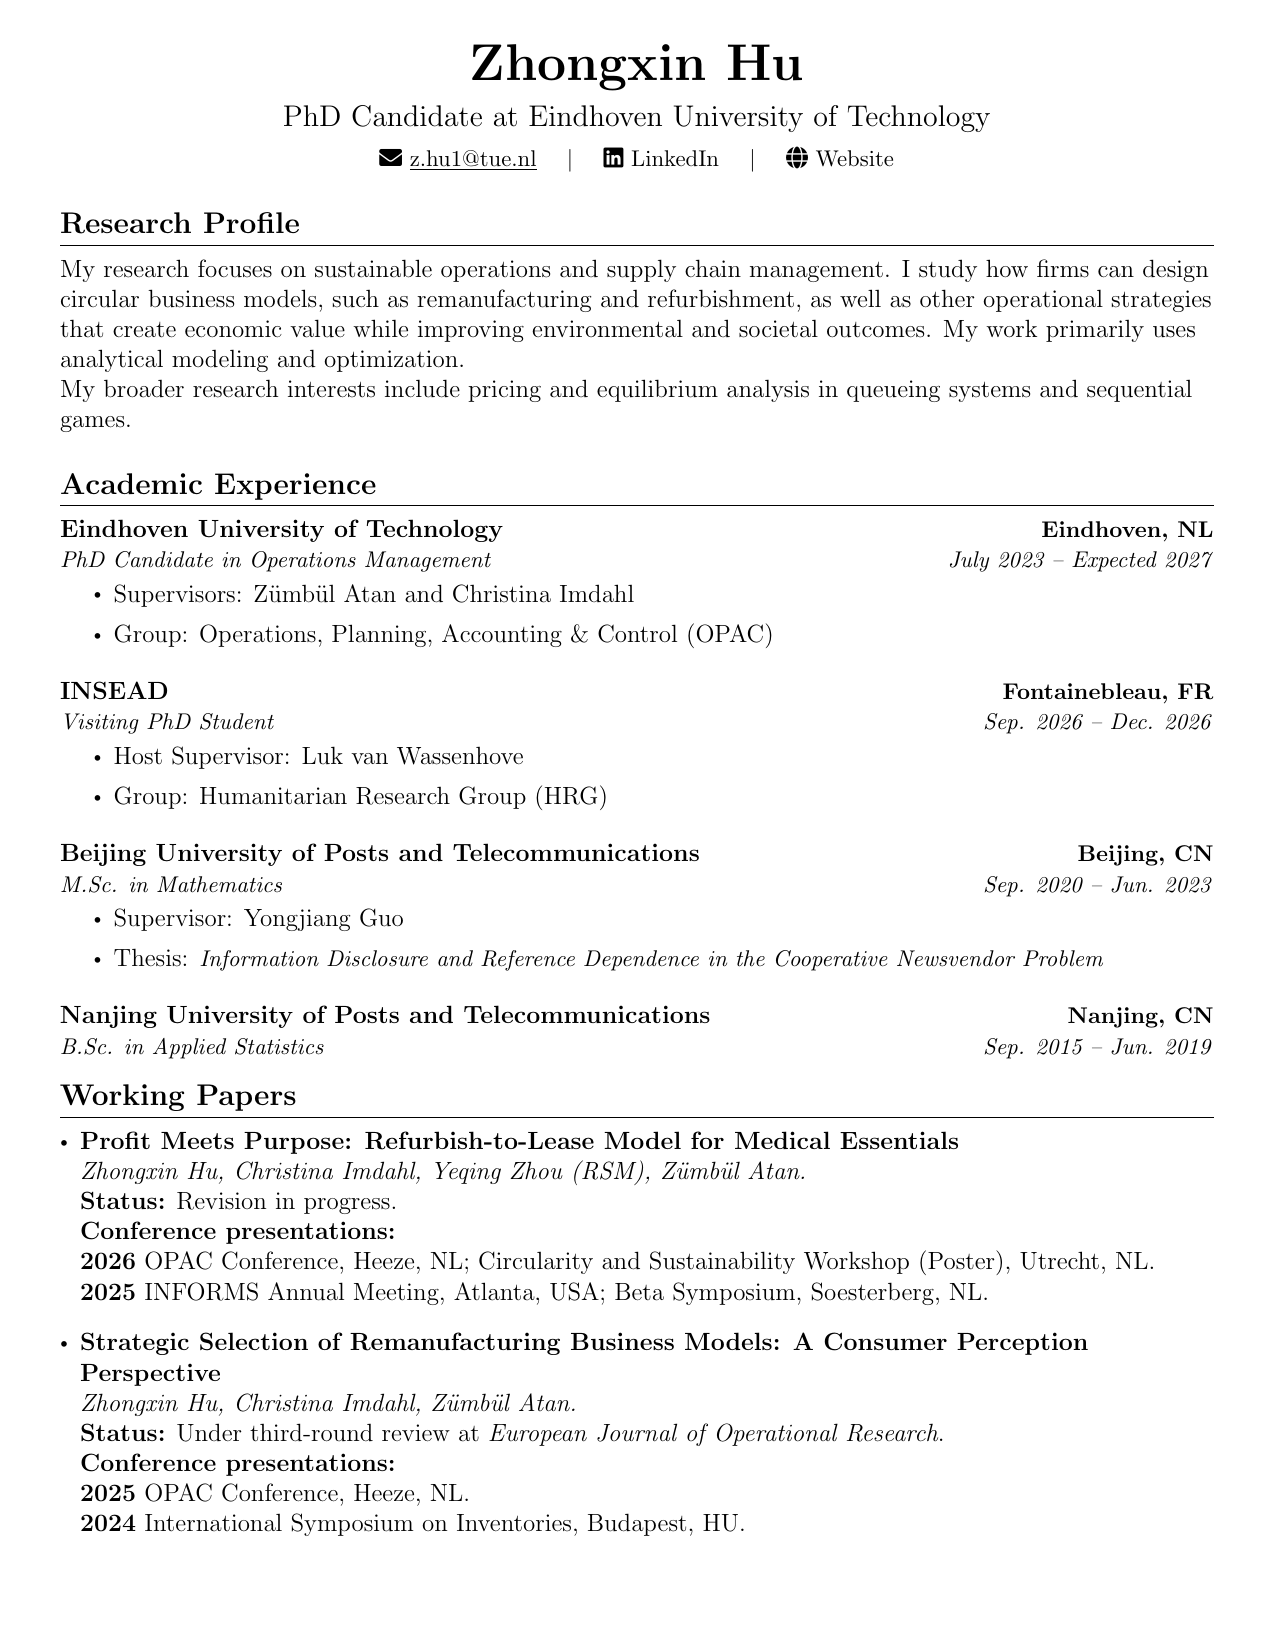
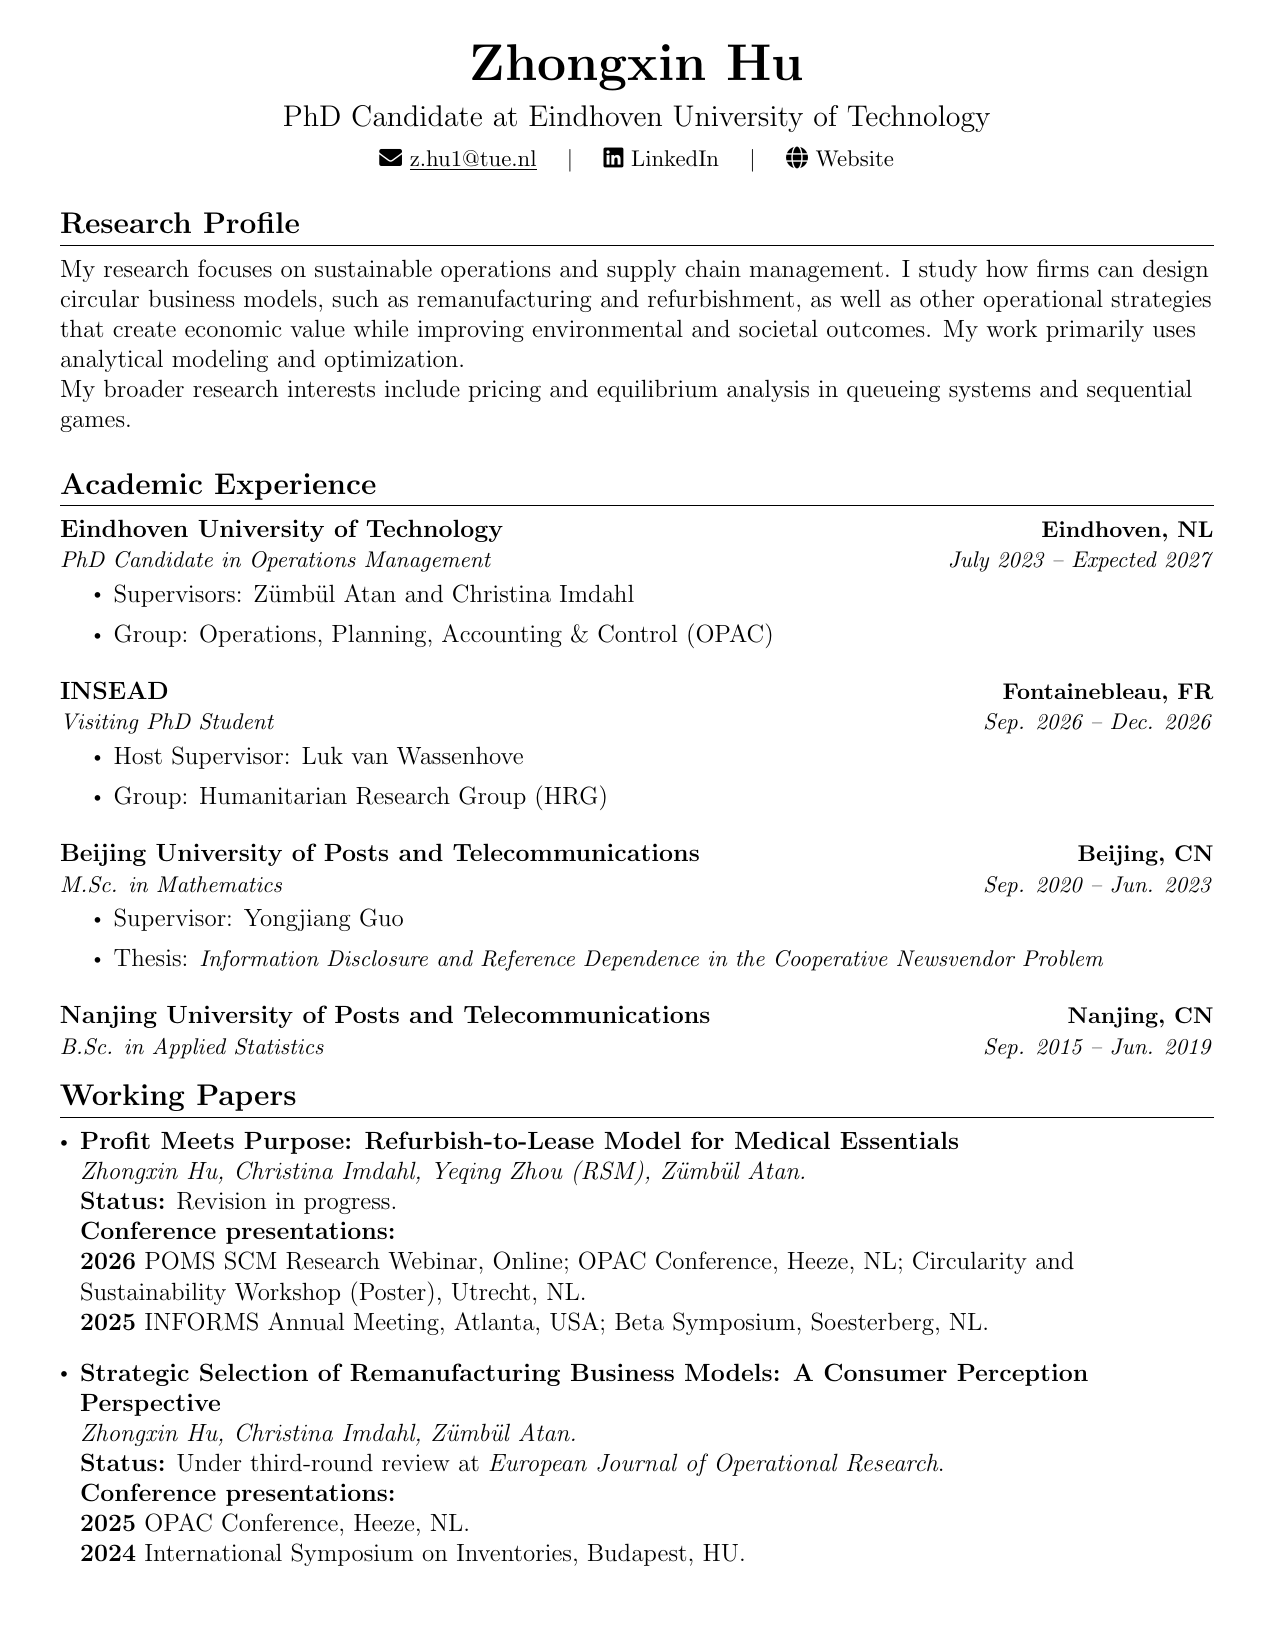
Deploying to gh-pages from @ mavisval/mavisval.github.io@219caa416c5528749c1822b3c19fd7b662a6ca55 🚀

Changed region(s): [[0.0612, 0.7418, 0.8565, 0.9582], [0.5506, 0.9273, 0.5812, 0.9582]]

diff --git a/publications/index.html b/publications/index.html
@@ -2,7 +2,7 @@
   :root {
     --max-content-width: 960px;
   }
-</style> <link rel="stylesheet" href="/assets/css/tailwind.css?v=50c64c15cbb9fd1ce6056fdb8bcb4b62"> <link defer rel="stylesheet" href="https://cdn.jsdelivr.net/npm/@fortawesome/fontawesome-free@7.2.0/css/all.min.css" integrity="sha256-MVopmdyC2tYTiJ8wlktf0uh0v4NgT+vNdyVFepi7Q0c=" crossorigin="anonymous"> <link defer rel="stylesheet" href="https://cdn.jsdelivr.net/npm/academicons@1.9.5/css/academicons.min.css" integrity="sha256-SzrCOBJbGVFMahewkgjwnApaV2+av1DwMAA+/QGLyZw=" crossorigin="anonymous"> <link defer rel="stylesheet" href="https://cdn.jsdelivr.net/npm/scholar-icons@1.0.3/css/scholar-icons.css" integrity="sha256-VY3hHVj/hNX3fYG6wtbA6TcKJQl7+FthzGSyIB64klY=" crossorigin="anonymous"> <link defer rel="stylesheet" type="text/css" href="https://fonts.googleapis.com/css?family=Roboto:300,400,500,700|Roboto+Slab:100,300,400,500,700|Material+Icons&amp;display=swap"> <link defer rel="stylesheet" href="/assets/css/jekyll-pygments-themes-github.css?v=591dab5a4e56573bf4ef7fd332894c99" media="" id="highlight_theme_light"> <link rel="shortcut icon" href="/assets/img/favicon.svg?v=39fb2730c48bcb2c2edf5f1d025e34cc"> <link rel="apple-touch-icon" href="/assets/img/favicon-180.png?v=cf4f88c2f43f24621c7fbbd009be7f69"> <link rel="stylesheet" href="/assets/css/main.css?v=3116ba77db9ee1581d05bb3e86fbf7f1"> <link rel="canonical" href="https://mavisval.github.io/publications/"> </head> <body class="fixed-top-nav sticky-bottom-footer"> <header> <nav id="navbar" class="navbar navbar-light navbar-expand-sm fixed-top" role="navigation"> <div class="container"> <a class="navbar-brand title font-weight-lighter" href="/"> Zhongxin Hu </a> <button class="navbar-toggler collapsed navbar-toggler-main" type="button" data-nav-toggle="navbarNav" aria-controls="navbarNav" aria-expanded="false" aria-label="Toggle navigation"> <span class="sr-only">Toggle navigation</span> <span class="icon-bar top-bar"></span> <span class="icon-bar middle-bar"></span> <span class="icon-bar bottom-bar"></span> </button> <div class="collapse navbar-collapse navbar-collapse-main" id="navbarNav"> <ul class="navbar-nav navbar-menu-list flex-nowrap"> <li class="nav-item "> <a class="nav-link" href="/">About Me </a> </li> <li class="nav-item active"> <a class="nav-link" href="/publications/">Papers <span class="sr-only">(current)</span> </a> </li> <li class="nav-item "> <a class="nav-link" href="/teaching/">Teaching </a> </li> <li class="nav-item "> <a class="nav-link" href="/cv/">CV </a> </li> <li class="nav-item "> <a class="nav-link" href="/interests/">Beyond Research </a> </li> </ul> </div> </div> </nav> </header> <div class="container mt-5" role="main"> <div class="post"> <header class="post-header"> <h1 class="post-title">Papers</h1> <p class="post-description"></p> </header> <article> <div class="publications"> <h2 class="bibliography">Working papers</h2> <ol class="bibliography"> <li> <div class="row"> <div class="col col-sm-2 abbr"> </div> <div id="huProfit" class="col-sm-8"> <div class="title">Profit Meets Purpose: Refurbish-to-Lease Model for Medical Essentials</div> <div class="author"> <em>Zhongxin Hu</em>, Christina Imdahl, Yeqing Zhou, and Zumbul Atan </div> <div class="periodical"> <div class="paper-meta"> <div class="paper-status"> <strong>Status</strong><span>Revision in process</span> </div> <div class="paper-presentations"> <strong>Presentations</strong><ul> <li> <span class="presentation-year">2026</span><span>OPAC Conference · Heeze, the Netherlands · <span class="paper-award">Best Presentation Award</span></span> </li> <li> <span class="presentation-year">2026</span><span>Circularity and Sustainability Workshop · Utrecht, the Netherlands · Poster</span> </li> <li> <span class="presentation-year">2025</span><span>INFORMS Annual Meeting · Atlanta, USA</span> </li> <li> <span class="presentation-year">2025</span><span>Beta Symposium · Soesterberg, the Netherlands</span> </li> </ul> </div> <div class="links"><a class="btn btn-sm z-depth-0" href="https://www.researchgate.net/publication/406075772_Profit_Meets_Purpose_Refurbish-to-Lease_Model_for_Medical_Essentials" target="_blank" rel="noopener noreferrer">ResearchGate</a></div> </div> </div> <div class="periodical"> </div> <div class="links"> </div> </div> </div> </li> <li> <div class="row"> <div class="col col-sm-2 abbr"> </div> <div id="huStrategic" class="col-sm-8"> <div class="title">Strategic Selection of Remanufacturing Business Models: A Consumer Perception Perspective</div> <div class="author"> <em>Zhongxin Hu</em>, Christina Imdahl, and Zumbul Atan </div> <div class="periodical"> <div class="paper-meta"> <div class="paper-status"> <strong>Status</strong><span>Under third-round review</span> </div> <div class="paper-presentations"> <strong>Presentations</strong><ul> <li> <span class="presentation-year">2025</span><span>OPAC Conference · Heeze, the Netherlands</span> </li> <li> <span class="presentation-year">2024</span><span>International Symposium on Inventories · Budapest, Hungary</span> </li> </ul> </div> <div class="links"><a class="btn btn-sm z-depth-0" href="https://www.researchgate.net/publication/397600707_Strategic_Selection_of_Remanufacturing_Business_Models_A_Consumer_Perception_Perspective" target="_blank" rel="noopener noreferrer">ResearchGate</a></div> </div> </div> <div class="periodical"> </div> <div class="links"> </div> </div> </div> </li> </ol> <h2 class="bibliography">Publications</h2> <ol class="bibliography"> <li> <div class="row"> <div class="col col-sm-2 abbr"> </div> <div id="cao2023effect" class="col-sm-8"> <div class="title">The effect of loss preference on queueing with information disclosure policy</div> <div class="author"> Jian Cao, Yongjiang Guo, and <em>Zhongxin Hu</em> </div> <div class="periodical"> <em>Methodology and Computing in Applied Probability</em>, 2023 </div> <div class="periodical"> </div> <div class="links"> <a href="https://doi.org/10.1007/s11009-023-10047-w" class="btn btn-sm z-depth-0" role="button" rel="external nofollow noopener" target="_blank">DOI</a> </div> </div> </div> </li> <li> <div class="row"> <div class="col col-sm-2 abbr"> </div> <div id="hu2023cooperating" class="col-sm-8"> <div class="title">Cooperating strategy of newsvendor with advertisers under partial quality disclosure</div> <div class="author"> <em>Zhongxin Hu</em> and Yongjiang Guo </div> <div class="periodical"> <em>Journal of Systems Science and Mathematical Sciences</em>, 2023 </div> <div class="periodical"> </div> <div class="links"> <a href="https://doi.org/10.12341/jssms22073" class="btn btn-sm z-depth-0" role="button" rel="external nofollow noopener" target="_blank">DOI</a> </div> </div> </div> </li> </ol> </div> </article> </div> </div> <footer class="sticky-bottom mt-5" role="contentinfo"> <div class="container"> © Copyright 2026 Zhongxin Hu. </div> </footer> <script>
+</style> <link rel="stylesheet" href="/assets/css/tailwind.css?v=50c64c15cbb9fd1ce6056fdb8bcb4b62"> <link defer rel="stylesheet" href="https://cdn.jsdelivr.net/npm/@fortawesome/fontawesome-free@7.2.0/css/all.min.css" integrity="sha256-MVopmdyC2tYTiJ8wlktf0uh0v4NgT+vNdyVFepi7Q0c=" crossorigin="anonymous"> <link defer rel="stylesheet" href="https://cdn.jsdelivr.net/npm/academicons@1.9.5/css/academicons.min.css" integrity="sha256-SzrCOBJbGVFMahewkgjwnApaV2+av1DwMAA+/QGLyZw=" crossorigin="anonymous"> <link defer rel="stylesheet" href="https://cdn.jsdelivr.net/npm/scholar-icons@1.0.3/css/scholar-icons.css" integrity="sha256-VY3hHVj/hNX3fYG6wtbA6TcKJQl7+FthzGSyIB64klY=" crossorigin="anonymous"> <link defer rel="stylesheet" type="text/css" href="https://fonts.googleapis.com/css?family=Roboto:300,400,500,700|Roboto+Slab:100,300,400,500,700|Material+Icons&amp;display=swap"> <link defer rel="stylesheet" href="/assets/css/jekyll-pygments-themes-github.css?v=591dab5a4e56573bf4ef7fd332894c99" media="" id="highlight_theme_light"> <link rel="shortcut icon" href="/assets/img/favicon.svg?v=39fb2730c48bcb2c2edf5f1d025e34cc"> <link rel="apple-touch-icon" href="/assets/img/favicon-180.png?v=cf4f88c2f43f24621c7fbbd009be7f69"> <link rel="stylesheet" href="/assets/css/main.css?v=3116ba77db9ee1581d05bb3e86fbf7f1"> <link rel="canonical" href="https://mavisval.github.io/publications/"> </head> <body class="fixed-top-nav sticky-bottom-footer"> <header> <nav id="navbar" class="navbar navbar-light navbar-expand-sm fixed-top" role="navigation"> <div class="container"> <a class="navbar-brand title font-weight-lighter" href="/"> Zhongxin Hu </a> <button class="navbar-toggler collapsed navbar-toggler-main" type="button" data-nav-toggle="navbarNav" aria-controls="navbarNav" aria-expanded="false" aria-label="Toggle navigation"> <span class="sr-only">Toggle navigation</span> <span class="icon-bar top-bar"></span> <span class="icon-bar middle-bar"></span> <span class="icon-bar bottom-bar"></span> </button> <div class="collapse navbar-collapse navbar-collapse-main" id="navbarNav"> <ul class="navbar-nav navbar-menu-list flex-nowrap"> <li class="nav-item "> <a class="nav-link" href="/">About Me </a> </li> <li class="nav-item active"> <a class="nav-link" href="/publications/">Papers <span class="sr-only">(current)</span> </a> </li> <li class="nav-item "> <a class="nav-link" href="/teaching/">Teaching </a> </li> <li class="nav-item "> <a class="nav-link" href="/cv/">CV </a> </li> <li class="nav-item "> <a class="nav-link" href="/interests/">Beyond Research </a> </li> </ul> </div> </div> </nav> </header> <div class="container mt-5" role="main"> <div class="post"> <header class="post-header"> <h1 class="post-title">Papers</h1> <p class="post-description"></p> </header> <article> <div class="publications"> <h2 class="bibliography">Working papers</h2> <ol class="bibliography"> <li> <div class="row"> <div class="col col-sm-2 abbr"> </div> <div id="huProfit" class="col-sm-8"> <div class="title">Profit Meets Purpose: Refurbish-to-Lease Model for Medical Essentials</div> <div class="author"> <em>Zhongxin Hu</em>, Christina Imdahl, Yeqing Zhou, and Zumbul Atan </div> <div class="periodical"> <div class="paper-meta"> <div class="paper-status"> <strong>Status</strong><span>Revision in process</span> </div> <div class="paper-presentations"> <strong>Presentations</strong><ul> <li> <span class="presentation-year">2026</span><span>POMS SCM Research Webinar · Online</span> </li> <li> <span class="presentation-year">2026</span><span>OPAC Conference · Heeze, the Netherlands · <span class="paper-award">Best Presentation Award</span></span> </li> <li> <span class="presentation-year">2026</span><span>Circularity and Sustainability Workshop · Utrecht, the Netherlands · Poster</span> </li> <li> <span class="presentation-year">2025</span><span>INFORMS Annual Meeting · Atlanta, USA</span> </li> <li> <span class="presentation-year">2025</span><span>Beta Symposium · Soesterberg, the Netherlands</span> </li> </ul> </div> <div class="links"><a class="btn btn-sm z-depth-0" href="https://www.researchgate.net/publication/406075772_Profit_Meets_Purpose_Refurbish-to-Lease_Model_for_Medical_Essentials" target="_blank" rel="noopener noreferrer">ResearchGate</a></div> </div> </div> <div class="periodical"> </div> <div class="links"> </div> </div> </div> </li> <li> <div class="row"> <div class="col col-sm-2 abbr"> </div> <div id="huStrategic" class="col-sm-8"> <div class="title">Strategic Selection of Remanufacturing Business Models: A Consumer Perception Perspective</div> <div class="author"> <em>Zhongxin Hu</em>, Christina Imdahl, and Zumbul Atan </div> <div class="periodical"> <div class="paper-meta"> <div class="paper-status"> <strong>Status</strong><span>Under third-round review</span> </div> <div class="paper-presentations"> <strong>Presentations</strong><ul> <li> <span class="presentation-year">2025</span><span>OPAC Conference · Heeze, the Netherlands</span> </li> <li> <span class="presentation-year">2024</span><span>International Symposium on Inventories · Budapest, Hungary</span> </li> </ul> </div> <div class="links"><a class="btn btn-sm z-depth-0" href="https://www.researchgate.net/publication/397600707_Strategic_Selection_of_Remanufacturing_Business_Models_A_Consumer_Perception_Perspective" target="_blank" rel="noopener noreferrer">ResearchGate</a></div> </div> </div> <div class="periodical"> </div> <div class="links"> </div> </div> </div> </li> </ol> <h2 class="bibliography">Publications</h2> <ol class="bibliography"> <li> <div class="row"> <div class="col col-sm-2 abbr"> </div> <div id="cao2023effect" class="col-sm-8"> <div class="title">The effect of loss preference on queueing with information disclosure policy</div> <div class="author"> Jian Cao, Yongjiang Guo, and <em>Zhongxin Hu</em> </div> <div class="periodical"> <em>Methodology and Computing in Applied Probability</em>, 2023 </div> <div class="periodical"> </div> <div class="links"> <a href="https://doi.org/10.1007/s11009-023-10047-w" class="btn btn-sm z-depth-0" role="button" rel="external nofollow noopener" target="_blank">DOI</a> </div> </div> </div> </li> <li> <div class="row"> <div class="col col-sm-2 abbr"> </div> <div id="hu2023cooperating" class="col-sm-8"> <div class="title">Cooperating strategy of newsvendor with advertisers under partial quality disclosure</div> <div class="author"> <em>Zhongxin Hu</em> and Yongjiang Guo </div> <div class="periodical"> <em>Journal of Systems Science and Mathematical Sciences</em>, 2023 </div> <div class="periodical"> </div> <div class="links"> <a href="https://doi.org/10.12341/jssms22073" class="btn btn-sm z-depth-0" role="button" rel="external nofollow noopener" target="_blank">DOI</a> </div> </div> </div> </li> </ol> </div> </article> </div> </div> <footer class="sticky-bottom mt-5" role="contentinfo"> <div class="container"> © Copyright 2026 Zhongxin Hu. </div> </footer> <script>
   window.alFolio = {
     compatBootstrap: false
   };

diff --git a/assets/jupyter/blog.ipynb.html b/assets/jupyter/blog.ipynb.html
@@ -1,4 +1,4 @@
-<!DOCTYPE html> <html lang="en"> <head><meta charset="utf-8"/> <meta content="width=device-width, initial-scale=1.0" name="viewport"/> <title>jekyll-jupyter-notebook20260920-3493-a50luo</title><script src="https://cdnjs.cloudflare.com/ajax/libs/require.js/2.1.10/require.min.js"></script> <style type="text/css">
+<!DOCTYPE html> <html lang="en"> <head><meta charset="utf-8"/> <meta content="width=device-width, initial-scale=1.0" name="viewport"/> <title>jekyll-jupyter-notebook20260928-4200-ey9gpk</title><script src="https://cdnjs.cloudflare.com/ajax/libs/require.js/2.1.10/require.min.js"></script> <style type="text/css">
     pre { line-height: 125%; }
 td.linenos .normal { color: inherit; background-color: transparent; padding-left: 5px; padding-right: 5px; }
 span.linenos { color: inherit; background-color: transparent; padding-left: 5px; padding-right: 5px; }
